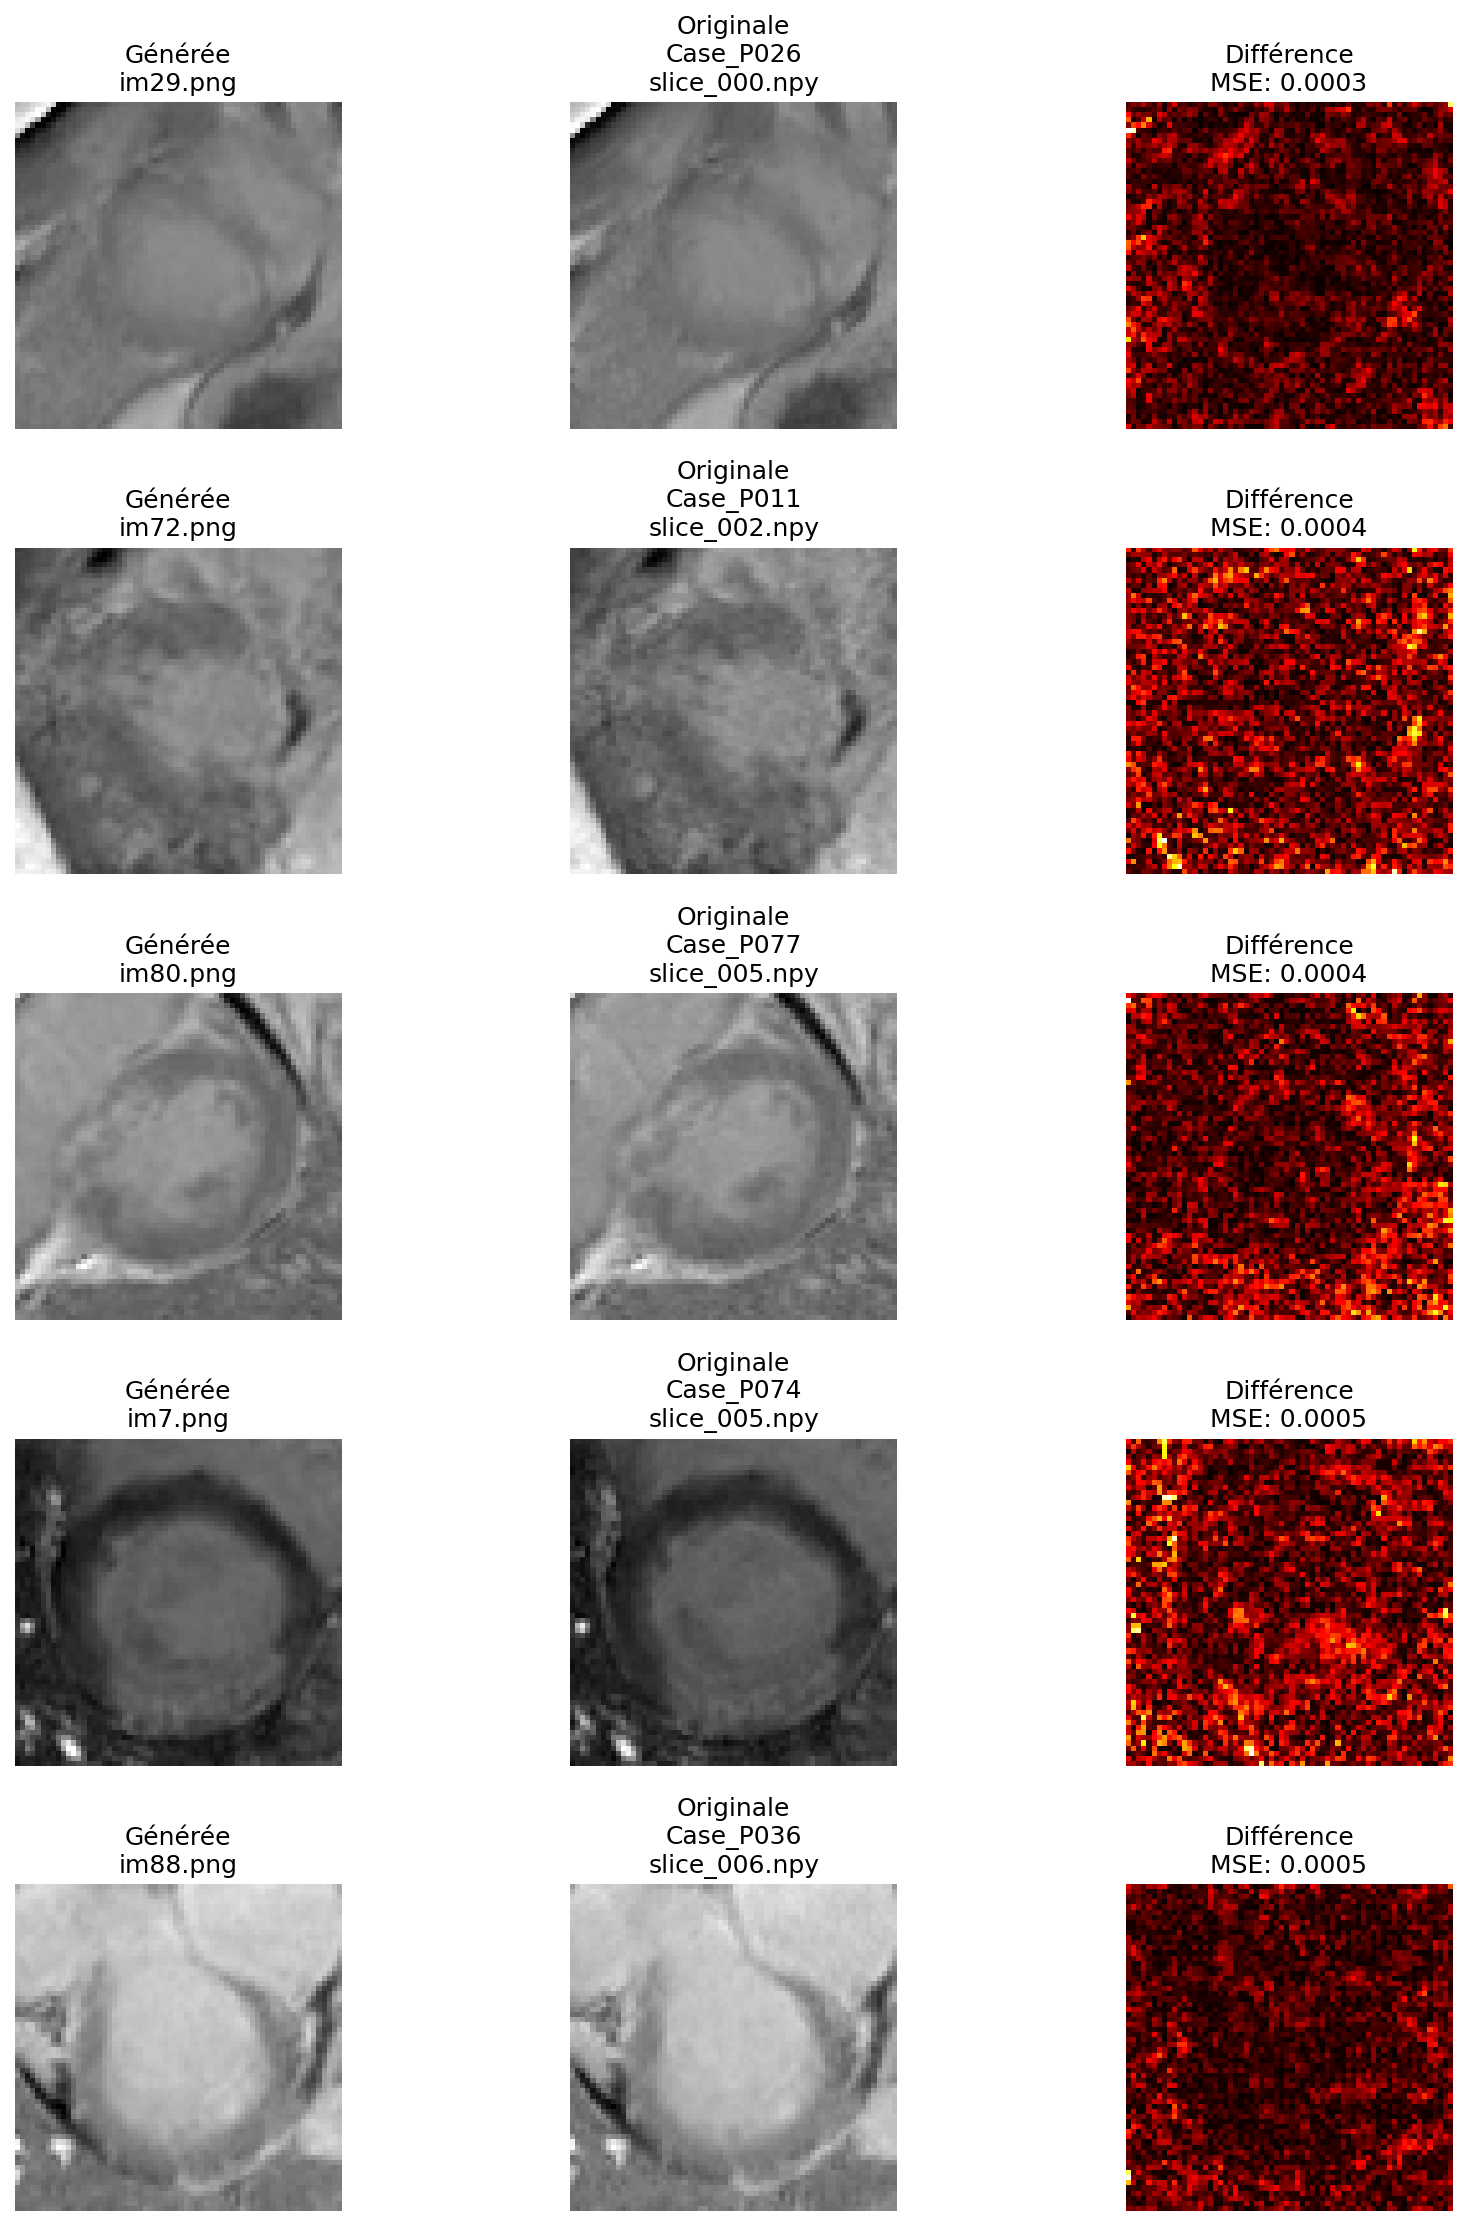
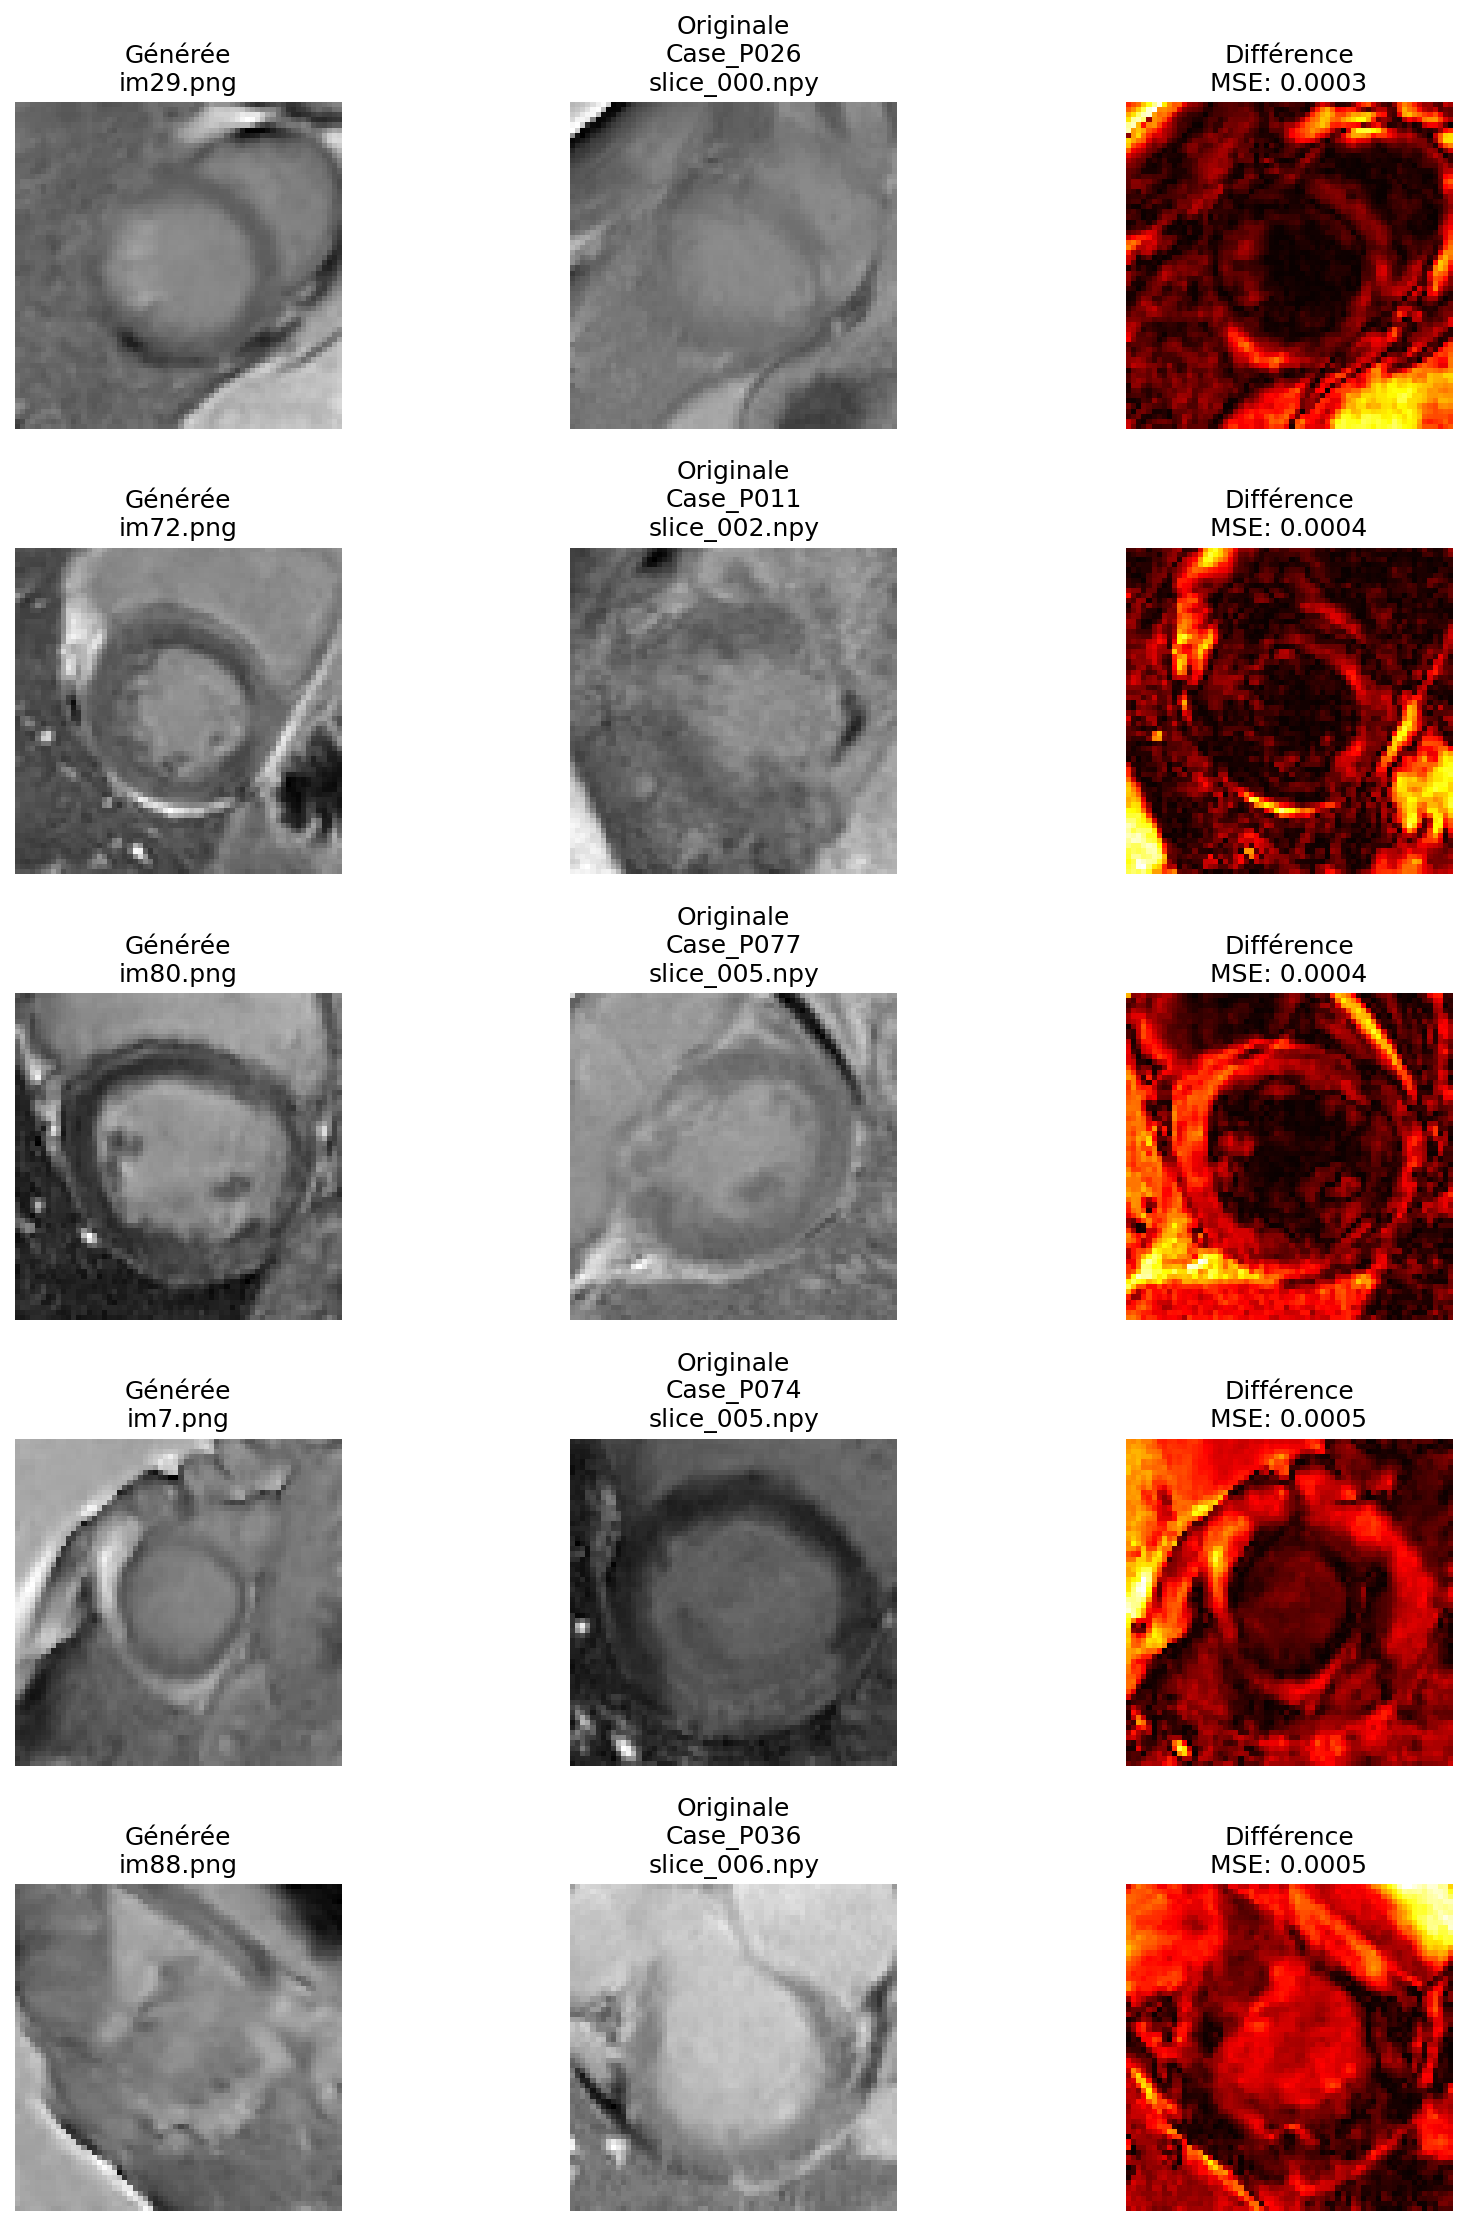
experiments

diff --git a/visualize_cond_classes.py b/visualize_cond_classes.py
@@ -1,0 +1,98 @@
+from time import time
+from datetime import datetime
+start = time()
+from mask_diffusion import generate_samples, create_monai_diffusion_unet, DiffusionProcess,prepare_monai_data_dicts, CacheDataset,get_monai_transforms
+import torch
+import matplotlib.pyplot as plt
+from monai.data import CacheDataset, DataLoader as MonaiDataLoader
+from tqdm import tqdm
+import numpy as np
+
+def build_cfg_condition(mask, drop_prob=0):
+    """
+    mask: [B, 1, H, W]
+    return: [B, 1, H, W] values in {0,1,2}
+    """
+
+    infarct = (mask >= 3).int()
+    no_inf  = (mask <= 2).int()
+
+
+    # classes ∈ {1,2}
+    classes = no_inf + infarct * 2   # [B,1,H,W]
+
+    # Drop par batch
+    drop = (torch.rand(mask.shape[0], 1, 1, 1, device=mask.device) < drop_prob).float()
+
+    # Broadcast → OK
+    classes = classes * (1.0 - drop)
+
+    return classes.float()
+
+   
+
+def main():
+    device = torch.device('cuda' if torch.cuda.is_available() else 'cpu')
+    print("device :",device)
+
+    BATCH_SIZE = 32
+    n_att_layers = (False, False, True)
+
+    print(f"generating {BATCH_SIZE} images with model of  attention layers")
+
+    data_dicts = prepare_monai_data_dicts('cropped_centered')
+        
+    # Transformations (sans augmentation)
+    train_transforms = get_monai_transforms()
+    
+    # CacheDataset pour accélérer le chargement
+    dataset = CacheDataset(
+        data=data_dicts,
+        transform=train_transforms,
+        cache_rate=0.5,  # Cache 50% des données en RAM
+        num_workers=4
+    )
+        
+    # DataLoader MONAI
+    dataloader = MonaiDataLoader(
+        dataset,
+        batch_size=BATCH_SIZE,
+        shuffle=True,
+        num_workers=4,
+        pin_memory=True
+    )
+
+    test_batch = next(iter(dataloader))
+    test_masks = test_batch['mask'][:BATCH_SIZE].to(device)
+    test_images = test_batch['image'][:BATCH_SIZE].to(device)
+    cond_classes = build_cfg_condition(test_masks)
+    
+    labels = []
+    for i in range(BATCH_SIZE):
+        if (cond_classes[i] == 0).any() :
+            labels.append("droped")
+        elif (cond_classes[i] == 2).any():
+            labels.append("unhealthy")
+        else :
+            labels.append("healthy")
+    
+            
+    for i in range(BATCH_SIZE):
+        fig, axes = plt.subplots(1, 3, figsize=(6,2))
+        axes[0].imshow(test_images[i, 0].cpu().numpy(), cmap='gray')
+        axes[0].set_title(f'Original')
+        axes[0].axis('off')
+
+        axes[1].imshow(test_masks[i, 0].cpu().numpy(), cmap='gray')
+        axes[1].set_title(f'Mask')
+        axes[1].axis('off')
+
+        axes[2].imshow(cond_classes[i, 0].cpu().numpy(), cmap='gray')
+        axes[2].set_title(f'CFG mask {labels[i]}')
+        axes[2].axis('off')
+
+       
+        plt.savefig(f'plots/vis_mask/im{i}.png', dpi=150)
+
+if __name__ == '__main__':
+    main()

diff --git a/transform_to_healthy.py b/transform_to_healthy.py
@@ -14,7 +14,7 @@ def main():
     print("device :",device)
 
     timesteps = 1000
-    timestep_for_transform = 200
+    timestep_for_transform = 50
     BATCH_SIZE = 16
     n_att_layers = (False, False, True)
 
@@ -49,7 +49,7 @@ def main():
             attention_levels=n_att_layers
         ).to(device)
 
-    checkpoint = torch.load(f'weights/mask_diffusion_cfg/500diffusion_model_final.pth',  map_location=torch.device('cpu')) 
+    checkpoint = torch.load(f'weights/mask_diffusion_cfg/diffusion_model_final.pth',  map_location=device) 
     model.load_state_dict(checkpoint['model_state_dict'])
 
     diffusion_process = DiffusionProcess(
@@ -67,7 +67,7 @@ def main():
         shape = (BATCH_SIZE, 1, test_masks.shape[2], test_masks.shape[3])
         
         noisy_images = diffusion_process.add_noise(test_images,t)
-        healthy_masks = torch.full_like(test_masks, 1,dtype = torch.int) + 1
+        healthy_masks = torch.full_like(test_masks, 1,dtype = torch.int)
         
         iterator = torch.arange(timestep_for_transform - 1,-1,-1)
         for t in tqdm(iterator,desc= "denoising"):
@@ -102,12 +102,12 @@ def main():
         axes[2].axis('off')
 
         orig_normalized = (test_images[i, 0] - test_images[i, 0].min()) / (test_images[i, 0].max() - test_images[i, 0].min()) * 255
-        diff = np.abs(noisy_images.numpy().astype(float) - orig_normalized.numpy().astype(float))
+        diff = np.abs(noisy_images.cpu().numpy().astype(float) - orig_normalized.cpu().numpy().astype(float))
         axes[3].imshow(diff[i, 0], cmap='hot')
         axes[3].set_title(f"Difference")
         axes[3].axis('off')
 
-        plt.savefig(f'samples/healthy/im{i}.png', dpi=150)
+        plt.savefig(f'./healthy/im{i}.png', dpi=150)
 
 if __name__ == '__main__':
     main()

diff --git a/mask_diffusion_cfg.py b/mask_diffusion_cfg.py
@@ -45,11 +45,7 @@ def load_and_normalize(data):
     image_min, image_max = image.min(), image.max()
     if image_max > image_min:
         image = 2.0 * (image - image_min) / (image_max - image_min) - 1.0
-    
-    mask_min, mask_max = mask.min(), mask.max()
-    if mask_max > mask_min:
-        mask = 2.0 * (mask - mask_min) / (mask_max - mask_min) - 1.0
-    
+        
     return {'image': image, 'mask': mask}
 
 
@@ -74,20 +70,6 @@ def build_cfg_condition(mask, drop_prob=0.1):
 
     return classes.float()
 
-# --- CFG ---
-def build_training_condition(mask, drop_prob=0.1):
-    infarct = (mask >= 3).int()
-    no_inf  = (mask <= 2).int()
-
-    classes = no_inf + infarct * 2  # [B,1,H,W] valeurs 1 ou 2
-
-    # Drop par batch
-    drop = (torch.rand(mask.shape[0], 1, 1, 1, device=mask.device) < drop_prob).float()
-
-    # Applique le drop (broadcast OK)
-    classes = classes * (1.0 - drop)
-
-    return classes.float()
 
 def prepare_monai_data_dicts(root_dir):
     """
@@ -359,7 +341,7 @@ def train_diffusion(model, dataloader, diffusion_process, optimizer, device, num
             
             
             # ==== CFG TRAINING ====
-            cond_classes = build_training_condition(masks, drop_prob=0.1)  # [B, 1, H, W] valeurs 0/1/2
+            cond_classes = build_cfg_condition(masks, drop_prob=0.1)  # [B, 1, H, W] valeurs 0/1/2
 
             model_input = torch.cat([x_noisy, cond_classes], dim=1)
 

diff --git a/mask_diffusion.py b/mask_diffusion.py
@@ -44,12 +44,7 @@ def load_and_normalize(data):
     image_min, image_max = image.min(), image.max()
     if image_max > image_min:
         image = 2.0 * (image - image_min) / (image_max - image_min) - 1.0
-    
-    mask_min, mask_max = mask.min(), mask.max()
-    if mask_max > mask_min:
-        mask = 2.0 * (mask - mask_min) / (mask_max - mask_min) - 1.0
-    
-    return {'image': image, 'mask': mask}
+    return {'image': image, 'mask': mask}    
 
 
 def prepare_monai_data_dicts(root_dir):
@@ -488,7 +483,7 @@ def main():
         optimizer=optimizer,
         device=device,
         num_epochs=num_epochs,
-        fid_eval_freq=1000,  # Calculer le FID tous les 10 epochs
+        fid_eval_freq=2000,  # Calculer le FID tous les 10 epochs
         num_fid_samples=100  # Utiliser 100 échantillons pour le FID
     )
     
